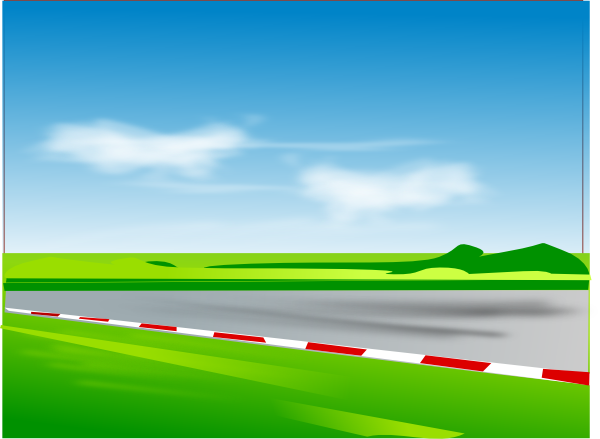
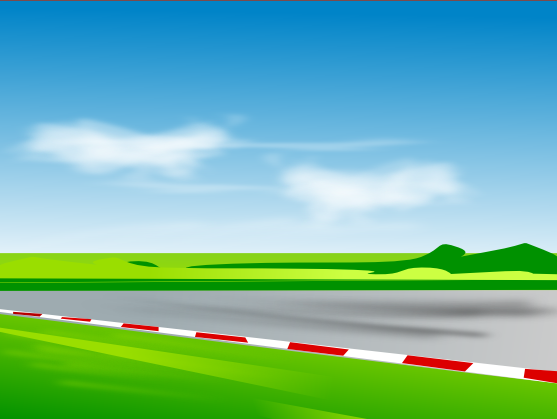
changed css kdlf

diff --git a/css/game.css b/css/game.css
@@ -1,6 +1,91 @@
 body {
-    background: url("../images/backgroundTrack.png") no-repeat center center;
+    background: url("../images/backgroundTrack2.png") no-repeat center center;
+    background-size: cover;
 }
+
+html{
+    height: 100%;
+    width: 100%
+}
+
+body{
+
+max-width:100%;
+max-height: 100%;
+
+}
+
+#infoBar{
+    position:relative;
+   
+    width:100%;
+    height:100px
+
+}
+
+#plyDiv{
+    position:absolute;
+    top:0px;
+    left:0px;
+    height:100px;
+    text-align: left;
+    width:200px;
+    
+}
+
+#trafficLight{
+    height:100px;
+    width:100px;
+    margin:0px auto;
+}
+
+#oppDiv{
+    position:absolute;
+    top:0px;
+    right:0px;
+    height:100px;
+    width:200px;
+    
+}
+
+    /* The Modal (background) */
+    .modal {
+        display: none; /* Hidden by default */
+        position: fixed; /* Stay in place */
+        z-index: 1; /* Sit on top */
+        padding-top: 100px; /* Location of the box */
+        left: 0;
+        top: 0;
+        width: 100%; /* Full width */
+        height: 100%; /* Full height */
+        overflow: auto; /* Enable scroll if needed */
+        background-color: rgb(0,0,0); /* Fallback color */
+        background-color: rgba(0,0,0,0.4); /* Black w/ opacity */
+    }
+
+    /* Modal Content */
+    .modal-content {
+        background-color: #fefefe;
+        margin: auto;
+        padding: 20px;
+        border: 1px solid #888;
+        width: 80%;
+    }
+
+    /* The Close Button */
+    .close {
+        color: #aaaaaa;
+        float: right;
+        font-size: 28px;
+        font-weight: bold;
+    }
+
+    .close:hover,
+    .close:focus {
+        color: #000;
+        text-decoration: none;
+        cursor: pointer;
+    }
 
 .loader {
     border: 16px solid #f3f3f3;
@@ -35,10 +120,3 @@ body {
     text-align: center;
     padding-top: 50px;
 }
-#car {
-    background-color: blue;
-    border-radius: 40px;
-    height:40px;
-    width: 60px;
-    position: absolute;
-    padding-top: 10px;

diff --git a/html/game.html b/html/game.html
@@ -15,24 +15,29 @@
         <div style="display:none;" id="foundOpponent">We found your Opponent. Your game will start in 5 seconds. Get Ready!</div>
         <div style="display:none;" id="countDown"></div>
 
-        <div style="display:none;" id="game">
-            <center><canvas id="myCanvas" width="90" height="140"
-            style="border:3px solid #808080;"></center>
-            </canvas>
-            <ul style="list-style-type: none; display: inline-block;">
-                <li> Username </li>
-                <li> Token: X values </li>
-                <li> Points: Y Points </li>
-            </ul>
-            <ul style="list-style-type: none; display: inline-block;">
-                <li> Opp-Username </li>
-                <li> Opp-Token: X values </li>
-                <li> Opp-Points: Y Points </li>
-            </ul>
-                <div id="stoplight">
-        </div>
-        <div id="car">
-        </div>
+   <div style="display:none;" id="game">
+    <button id="myBtn">Instructions</button>
+    <div id="infoBar">
+      <div id="plyDiv">
+           <ul style="list-style-type: none; display: inline-block;" id="PlyInfo">
+                <li id="namePly" value=""> </li>
+                <li id="tokensPly" value="">  </li>
+                <li id="pointsPly" value="">  </li>
+           </ul>
+      </div>
+
+      <div id ="trafficLight">
+        <center><canvas id="myCanvas" width="90" height="140"
+        style="border:3px solid #808080;"></center>
+      </div>
+
+      <div id="oppDiv">
+           <ul style="list-style-type: none; display: inline-block;" id="OppInfo">
+                <li id="nameOpp" value=""> </li>
+          <li id="tokensOpp" value="">  </li>
+          <li id="pointsOpp" value="">  </li>
+         </ul>
+      </div>
         <p id="spacebar">
         </div>
         </p>

diff --git a/html/game2.html b/html/game2.html
@@ -1,0 +1,42 @@
+<!DOCTYPE html>
+
+<html>
+    <head>
+        <title>Game</title>
+        <meta charset="UTF-8">
+        <script type="text/javascript" src="https://ajax.googleapis.com/ajax/libs/jquery/3.1.1/jquery.min.js"></script>
+        <link rel="stylesheet" href="../css/game.css"> 
+    </head>
+    <body onload="loading()">
+
+        <div id="searching">Finding your opponent</div>
+        <div id="loader" class="loader"></div>
+
+        <div style="display:none;" id="foundOpponent">We found your Opponent. Your game will start in 5 seconds. Get Ready!</div>
+        <div style="display:none;" id="countDown"></div>
+
+        <div style="display:none;" id="game">
+            <center><canvas id="myCanvas" width="90" height="140"
+            style="border:3px solid #808080;"></center>
+            </canvas>
+            <ul style="list-style-type: none; display: inline-block;">
+                <li> Username </li>
+                <li> Token: X values </li>
+                <li> Points: Y Points </li>
+            </ul>
+            <ul style="list-style-type: none; display: inline-block;">
+                <li> Opp-Username </li>
+                <li> Opp-Token: X values </li>
+                <li> Opp-Points: Y Points </li>
+            </ul>
+                <div id="stoplight">
+        </div>
+        <div id="car">
+        </div>
+        <p id="spacebar">
+        </div>
+        </p>
+
+    <script src="../js/game.js"></script>     
+    </body>
+</html
